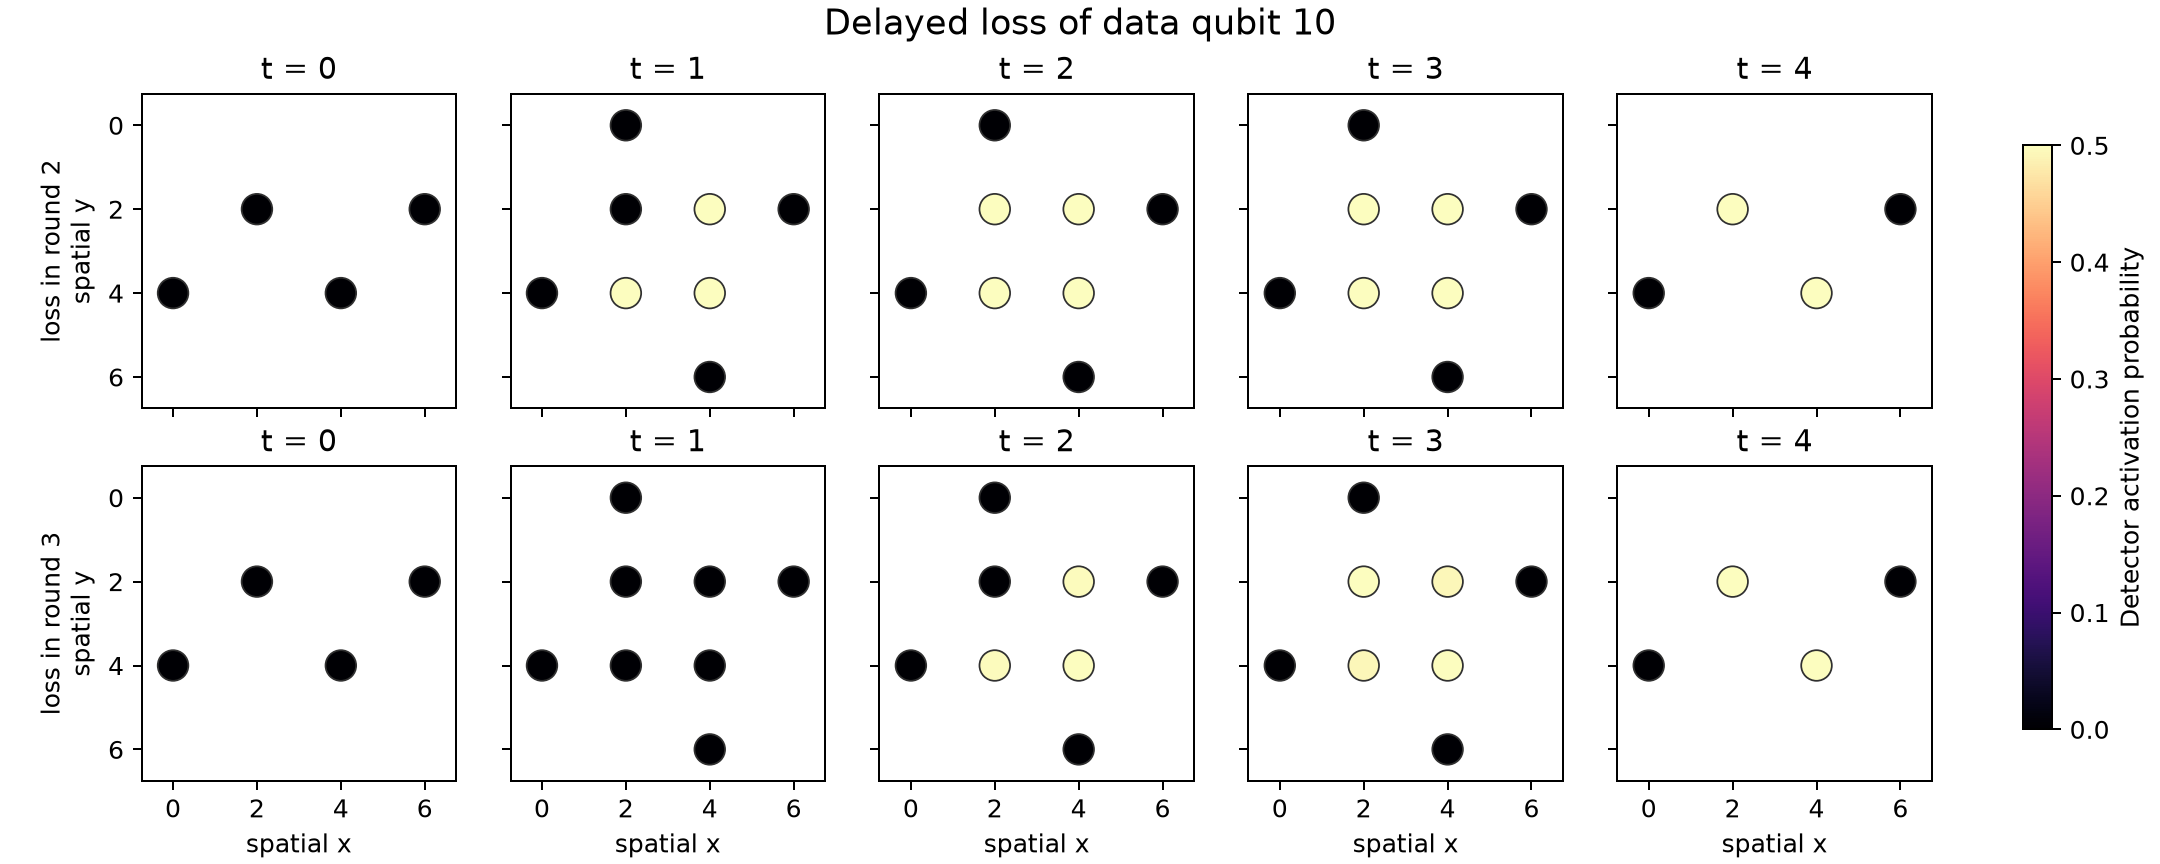
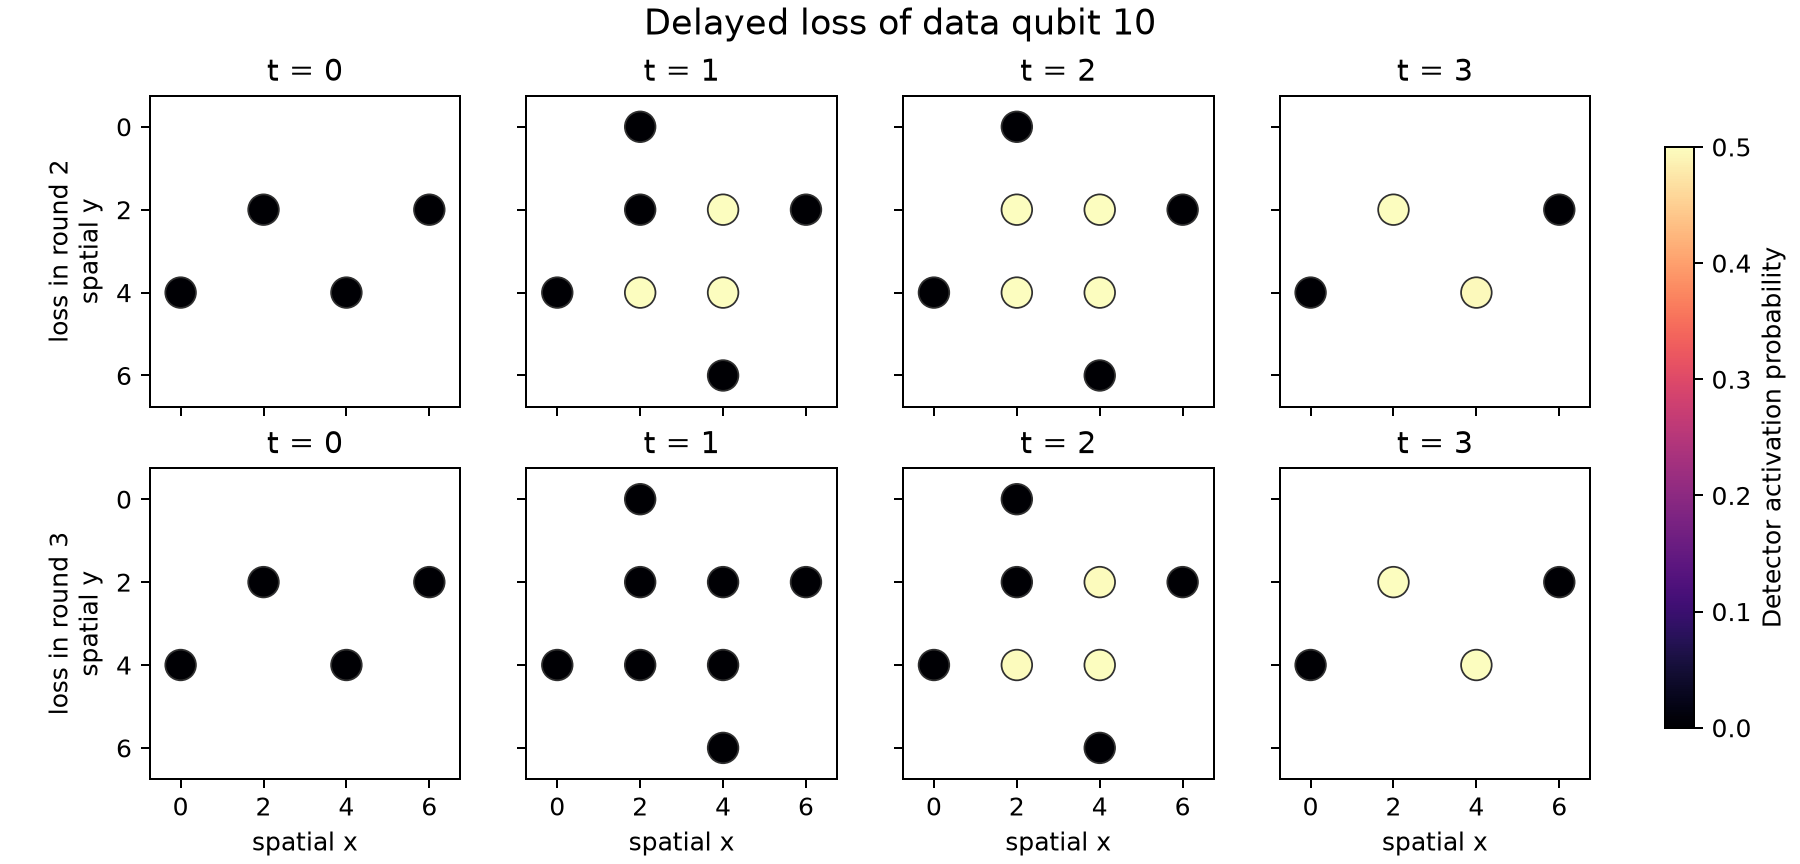
docs(noncomp): align delayed-loss tutorial with paper
Use four detector time slices matching the Figure 8 example and distinguish syndrome randomness caused by cancelled interactions from the final readout placeholder.

Assisted-by: ChatGPT (GPT-5.6 sol) <noreply@openai.com>

diff --git a/docs/guide/scripts/delayed_loss_tutorial.py b/docs/guide/scripts/delayed_loss_tutorial.py
@@ -25,7 +25,7 @@ from numpy.typing import NDArray
 from clifft import noncomp
 
 DISTANCE = 3
-ROUNDS = 4
+ROUNDS = 3
 DATA_QUBIT = 10
 FORCED_SHOTS = 20_000
 STOCHASTIC_SHOTS = 10_000
@@ -101,7 +101,7 @@ def plot_detector_activity(
     figure, axes = plt.subplots(
         len(histories),
         len(times),
-        figsize=(12, 4.8),
+        figsize=(10, 4.8),
         sharex=True,
         sharey=True,
         constrained_layout=True,

diff --git a/docs/guide/delayed-loss.md b/docs/guide/delayed-loss.md
@@ -46,7 +46,7 @@ import stim
 from clifft import noncomp
 
 distance = 3
-rounds = 4
+rounds = 3
 data_qubit = 10
 
 base = stim.Circuit.generated(
@@ -66,6 +66,10 @@ Output:
 
 Qubit 10 is the central data site. It participates in four `CX` interactions
 per syndrome-extraction round and is not measured until the final data readout.
+With three extraction rounds, Stim reports four detector slices, numbered 0
+through 3: an initial syndrome, two later syndrome comparisons, and the final
+data readout. These correspond to the four stages in the paper's example, with
+Stim's time coordinate starting at zero.
 
 ## Select two possible loss times
 
@@ -148,19 +152,20 @@ print(np.flatnonzero(late.heralds.any(axis=0)))
 Output:
 
 ```text
-[36]
-[36]
+[28]
+[28]
 ```
 
-The first four rounds each measure eight syndrome qubits, occupying
-measurement slots 0 through 31. Qubit 10 is the fifth data qubit in the final
-measurement, so both histories herald slot 36. From the readout alone, the two
+The three rounds each measure eight syndrome qubits, occupying measurement
+slots 0 through 23. Qubit 10 is the fifth data qubit in the final measurement,
+so both histories herald slot 28. From the readout alone, the two
 losses are indistinguishable.
 
 Their detector records are not. The following summary counts detector
-locations with activation probability above 25%. A deterministic loss
-produces probabilities near 50% at affected detectors because the lost
-measurement contributes a random placeholder bit.
+locations with activation probability above 25%. Cancelled `CX` interactions
+change later stabilizer measurements, so detector comparisons that depend on
+them activate with probabilities near 50%. At the final time slice, two
+detectors also include the random placeholder for the heralded data readout.
 
 ```python
 coordinates = base.get_detector_coordinates()
@@ -198,13 +203,13 @@ time  round-2 loss  round-3 loss
    0   0/4            0/4
    1   3/8            0/8
    2   4/8            3/8
-   3   4/8            4/8
-   4   2/4            2/4
+   3   2/4            2/4
 ```
 
 The round-2 loss changes detectors one time slice earlier. By the final
 readout, both histories have the same loss herald and activate the same two
-boundary detectors.
+final-round detectors. This shared final signature is analogous to $D_3$ in
+Figure 8; the paper's decoder incorporates it into the lifecycle hypergraph.
 
 ## Plot the detector histories
 
@@ -222,7 +227,7 @@ times = sorted({int(coord[2]) for coord in coordinates.values()})
 figure, axes = plt.subplots(
     len(histories),
     len(times),
-    figsize=(12, 4.8),
+    figsize=(10, 4.8),
     sharex=True,
     sharey=True,
     constrained_layout=True,
@@ -320,9 +325,9 @@ Output:
 
 ```text
 per-operand loss probability: 0.0010005
-shots with detected loss: 17.1%
-shots ending with a lost data site: 8.9%
-detector activation in heralded shots: 7.6%
+shots with detected loss: 13.0%
+shots ending with a lost data site: 6.6%
+detector activation in heralded shots: 8.1%
 ```
 
 The `CX` key is a gate hook, so Clifft evaluates the transition independently
